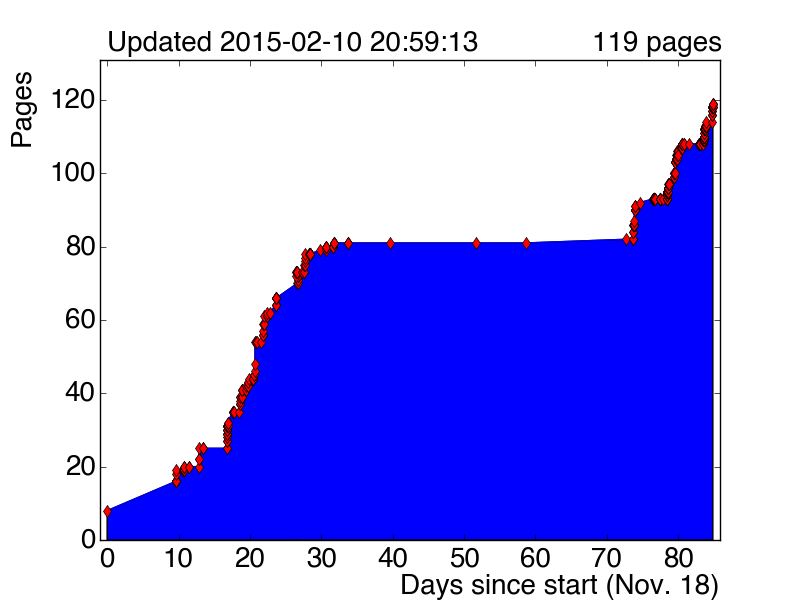
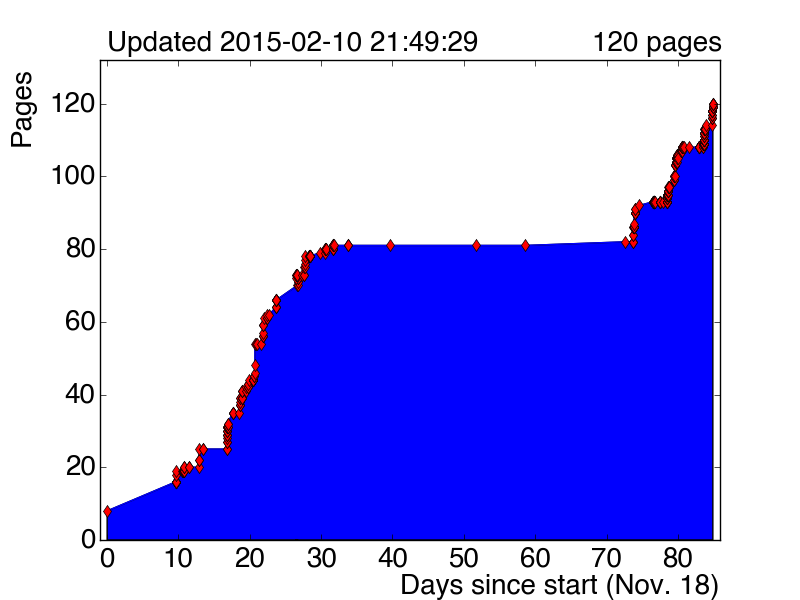
messing with TOC

diff --git a/tex/strategy.tex b/tex/strategy.tex
@@ -1,4 +1,4 @@
-\chapter[$\Htautau$ analysis strategy][$\Htautau$ analysis strategy]{$\Htautau$ analysis strategy}
+\chapter[$\Htautau$ strategy][$\Htautau$ strategy]{$\Htautau$ strategy}
 \label{chap:strategy}
 
 \begin{quote}
@@ -7,6 +7,12 @@
 
 \section{Introduction}
 \label{sec:strategy-introduction}
+
+\subsection{ATLAS Higgs program}
+\label{sec:strategy-higgs}
+
+\subsection{$\Htautau$}
+\label{sec:strategy-htautau}
 
 \begin{figure}[tp]
   \centering
@@ -17,6 +23,9 @@
 
 \section{Physics objects}
 \label{sec:strategy-objects}
+
+\subsection{Electrons, muons, and $\tauh$}
+\label{sec:strategy-leptons}
 
 \begin{figure}[tp]
   \centering
@@ -40,6 +49,9 @@
   \caption{Variables.}
   \label{fig:strategy-objects-electron}
 \end{figure}
+
+\subsection{Jets and $\MET$}
+\label{sec:strategy-hadronic}
 
 \begin{figure}[tp]
   \centering
@@ -67,6 +79,9 @@
 \section{Categorization}
 \label{sec:strategy-categorization}
 
+\subsection{Pre-selection}
+\label{sec:strategy-preselection}
+
 \begin{figure}[tp]
   \centering
   \includegraphics[width=0.48\textwidth]{figures/category-cartoons/presel}
@@ -77,6 +92,7 @@
 \end{figure}
 
 \clearpage
+
 \begin{figure}[tp]
   \centering
   \includegraphics[width=0.32\textwidth]{figures/presel/period}
@@ -95,6 +111,7 @@
 \end{figure}
 
 \clearpage
+
 \begin{figure}[tp]
   \centering
   \includegraphics[width=0.32\textwidth]{figures/presel/met-pt}
@@ -113,9 +130,22 @@
   \label{fig:stategy-presel-2}
 \end{figure}
 
+\subsection{VBF category}
+\label{sec:strategy-VBF}
+
+\subsection{Boosted category}
+\label{sec:strategy-boost}
+
 \clearpage
+
 \section{$\tautau$ mass reconstruction}
 \label{sec:strategy-mtautau}
+
+\subsection{$\tau\tau$ systems}
+\label{sec:strategy-mtautau-intro}
+
+\subsection{$\mMMC$ algorithm}
+\label{sec:strategy-mtautau-mMMC}
 
 % MMC cartoon
 % ---------------------------------------------------------------------------------
@@ -137,6 +167,9 @@
   \label{fig:strategy-mtautau-inputs}
 \end{figure}
 
+\subsection{Performance}
+\label{sec:strategy-mtautau-performance}
+
 % mass ROCs
 % ---------------------------------------------------------------------------------
 \begin{figure}[tp]
@@ -151,13 +184,16 @@
 \section{MVA discrimination}
 \label{sec:strategy-mva}
 
+\subsection{Inputs}
+\label{sec:strategy-mva-inputs}
+
 % centrality cartoons
 % ---------------------------------------------------------------------------------
 \begin{figure}[tp]
   \centering
   \includegraphics[width=0.48\textwidth]{figures/backgrounds/cartoon_lepton_eta_centrality}
   \includegraphics[width=0.48\textwidth]{figures/backgrounds/cartoon_met_phi_centrality}
-  \caption{Variables, courtesy of Tae Min Hong.}
+  \caption{Cartoons of centrality variables, courtesy of Tae Min Hong.}
   \label{fig:strategy-centrality-cartoons}
 \end{figure}
 
@@ -234,7 +270,12 @@
 
 % VBF correlations
 % ---------------------------------------------------------------------------------
+
+\subsection{Correlations}
+\label{sec:strategy-mva-correlations}
+
 \clearpage
+
 \begin{figure}[tp]
   \centering
   \includegraphics[width=0.98\textwidth]{figures/kinematiccorrelations/mT-vs-mMMC}
@@ -252,6 +293,7 @@
 \end{figure}
 
 \clearpage
+
 \begin{figure}[tp]
   \centering
   \includegraphics[width=0.98\textwidth]{figures/kinematiccorrelations/jj_mass-vs-jj_deta}
@@ -268,6 +310,6 @@
   \label{fig:strategy-kinematic-correlations-4}
 \end{figure}
 
-Here is a citation~\cite{1999.ATLAS.Physics-TDR}.
-
+\subsection{MVAs in other VBF analyses}
+\label{sec:strategy-mva-elsewhere}
 

diff --git a/tex/experiment.tex b/tex/experiment.tex
@@ -68,18 +68,20 @@
   \label{fig:atlas-measurements}
 \end{figure}
 
-\section{Tracking}
-\section{Calorimetry}
-\section{Muon spectrometry}
+\subsection{Tracking}
+\subsection{Calorimetry}
+\subsection{Muon spectrometry}
+
 \section{Particle identification}
 \subsection{Muons}
 \subsection{Electrons and photons}
 \subsection{Hadrons}
-\subsubsection{Jets}
-\subsubsection{Jets from $b$-hadron decays}
-\subsubsection{Jets from $\tau$ lepton decays}
+% \subsubsection{Jets}
+% \subsubsection{Jets from $b$-hadron decays}
 \subsection{Neutrinos}
 \section{Triggering}
+\subsection{L1}
+\subsection{HLT}
 
 \begin{figure}[tp]
   \centering

diff --git a/tex/results.tex b/tex/results.tex
@@ -5,10 +5,17 @@
 Results of the $\Htautau$ analysis are described.
 \end{quote}
 
+\section{Predictions in the signal region}
+\label{sec:results-prefit}
+
+\section{$\Htautauhh$ and $\Htautaull$}
+\label{sec:results-hhll}
+
 \section{Fit results}
-\label{sec:results-fit-results}
+\label{sec:results-fit}
 
 \clearpage
+
 \begin{figure}[tp]
   \centering
   \includegraphics[width=0.48\textwidth]{figures/HIGG-2013-32/fig_08b}
@@ -22,6 +29,7 @@ Results of the $\Htautau$ analysis are described.
 \end{figure}
 
 \clearpage
+
 \begin{figure}[tp]
   \centering
   \includegraphics[width=0.48\textwidth]{figures/HIGG-2013-32/fig_10}

diff --git a/tex/backgrounds.tex b/tex/backgrounds.tex
@@ -1,4 +1,4 @@
-\chapter[Backgrounds to $\Htautau$][Backgrounds to $\Htautau$]{Backgrounds to $\Htautau$}
+\chapter[Signal and background predictions][Signal and background predictions]{Signal and background predictions}
 \label{chap:backgrounds}
 
 \begin{quote}

diff --git a/pages.md b/pages.md
@@ -437,3 +437,11 @@
 + [2015-02-10-20h42m12s] 119
 + [2015-02-10-20h43m28s] 119
 + [2015-02-10-20h59m13s] 119
++ [2015-02-10-21h26m58s] 119
++ [2015-02-10-21h32m22s] 119
++ [2015-02-10-21h33m57s] 119
++ [2015-02-10-21h38m12s] 120
++ [2015-02-10-21h42m36s] 120
++ [2015-02-10-21h43m28s] 120
++ [2015-02-10-21h44m50s] 120
++ [2015-02-10-21h49m29s] 120
